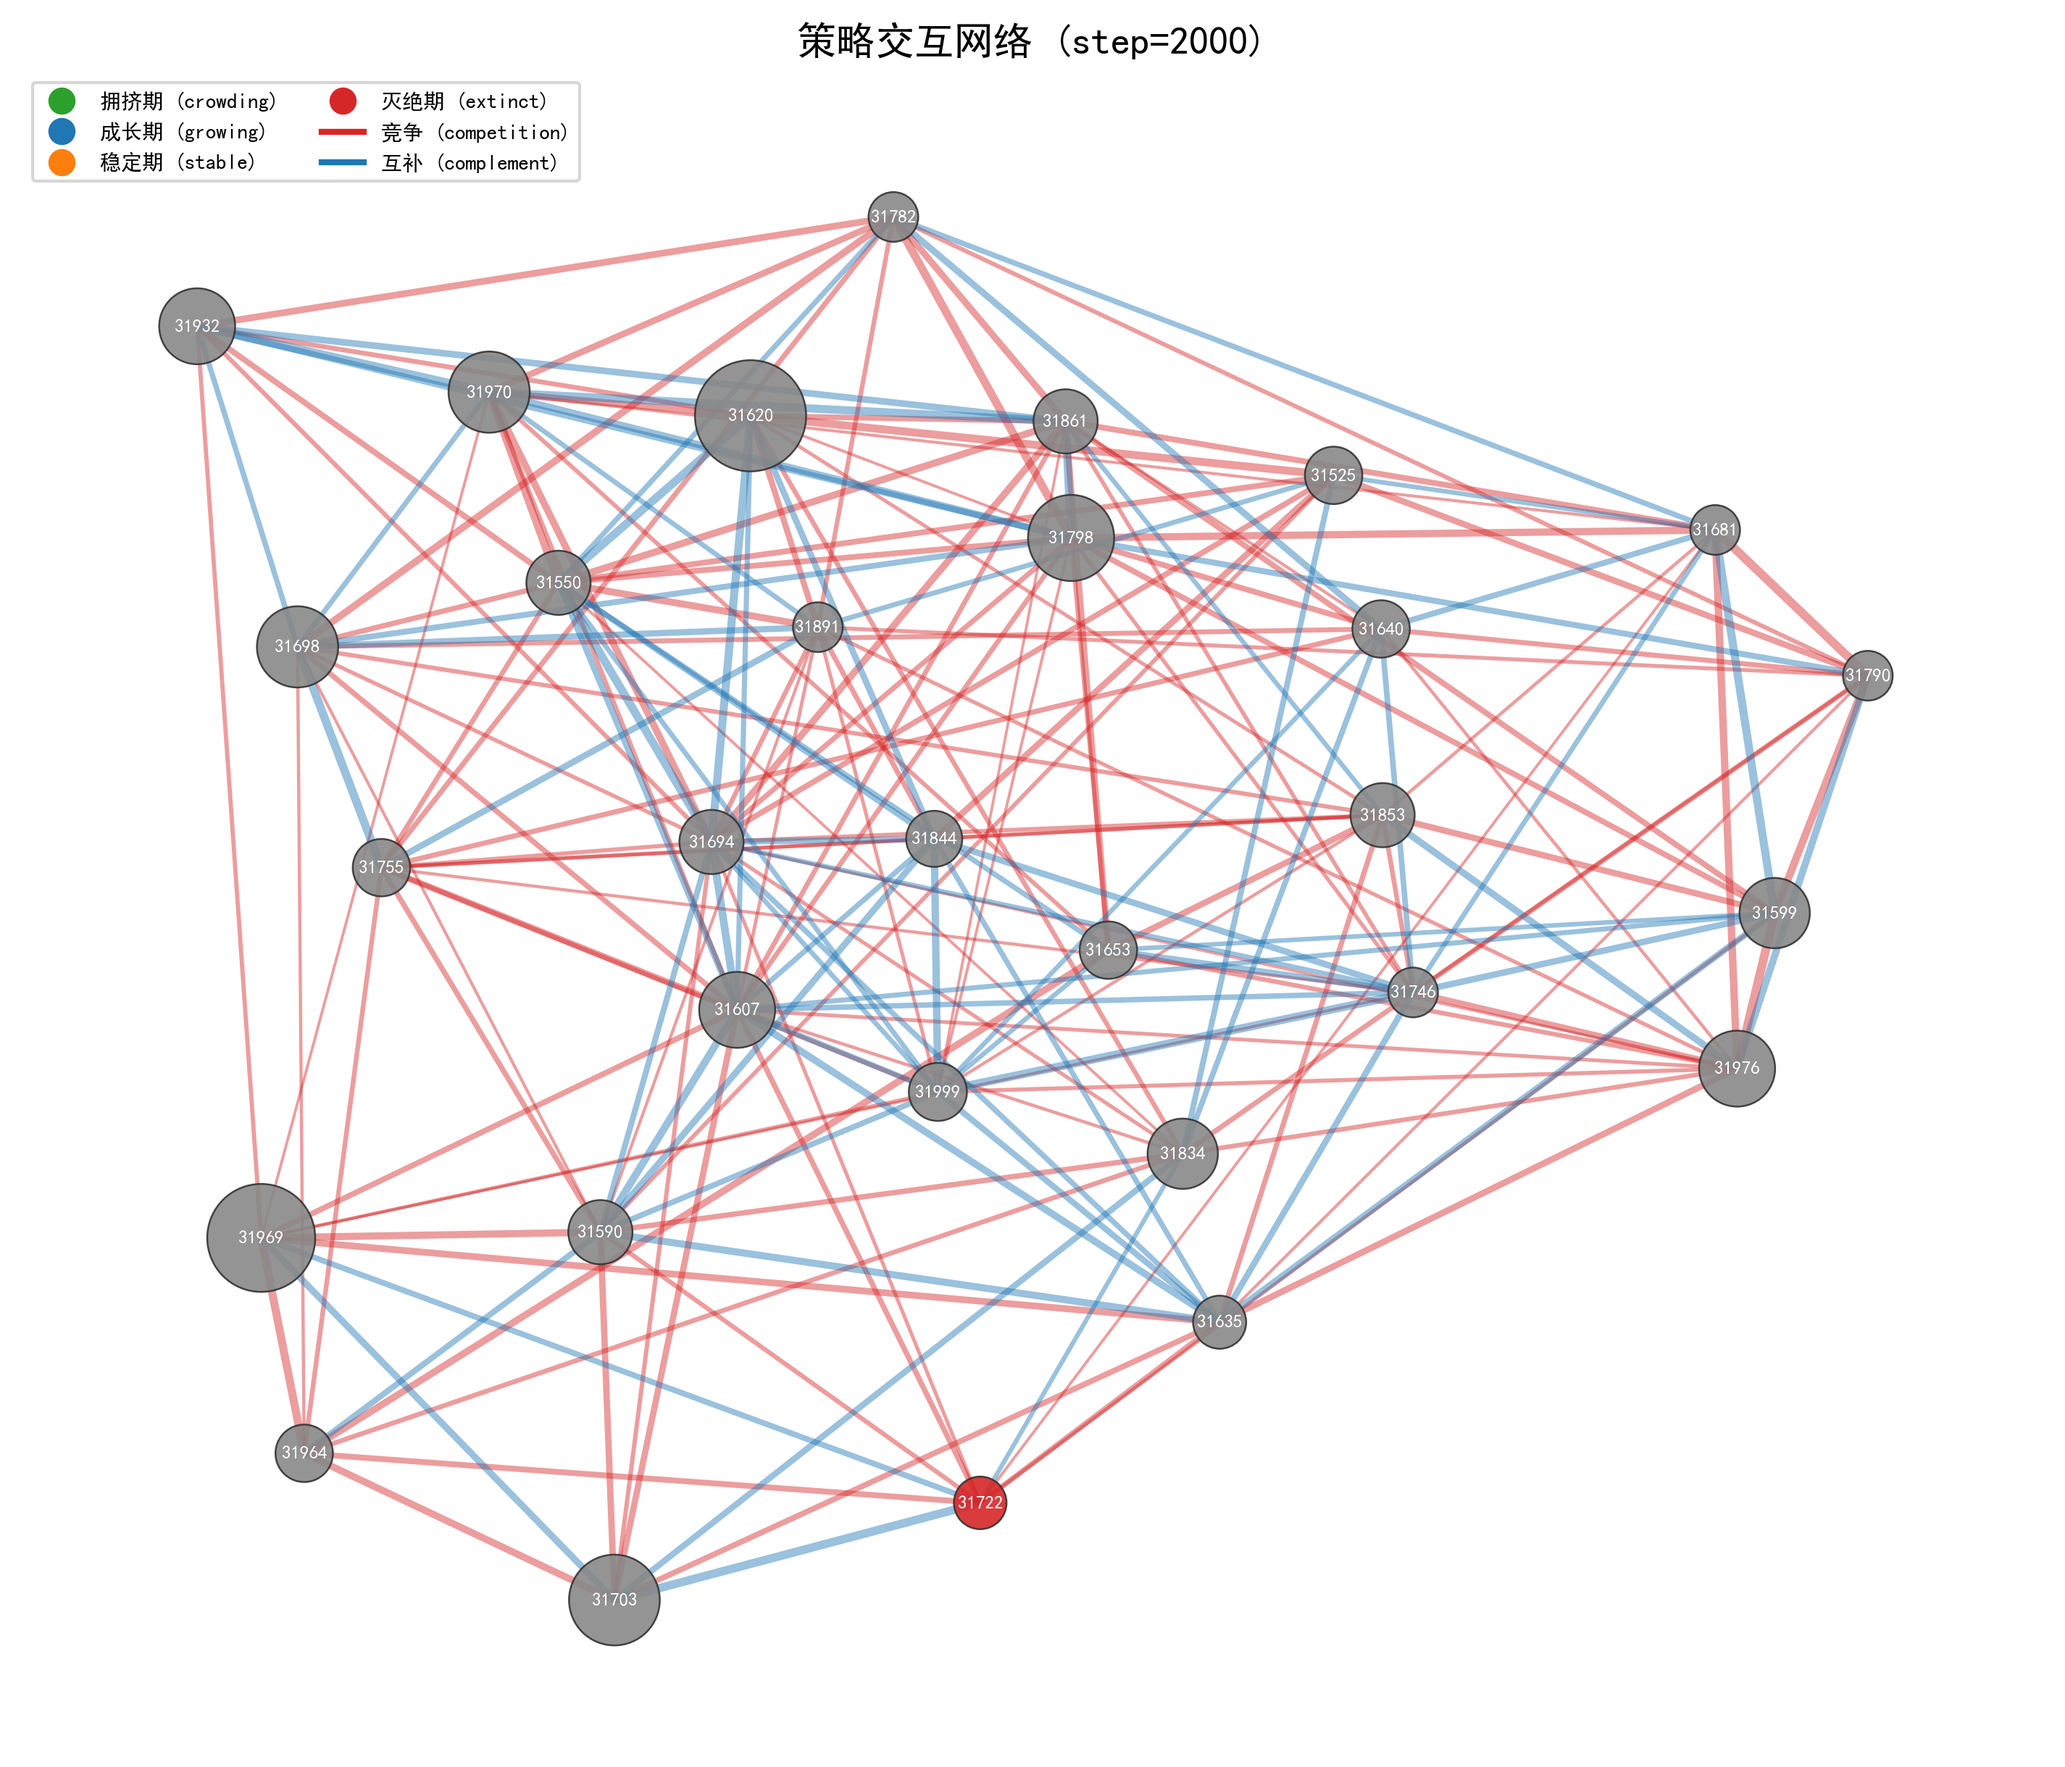
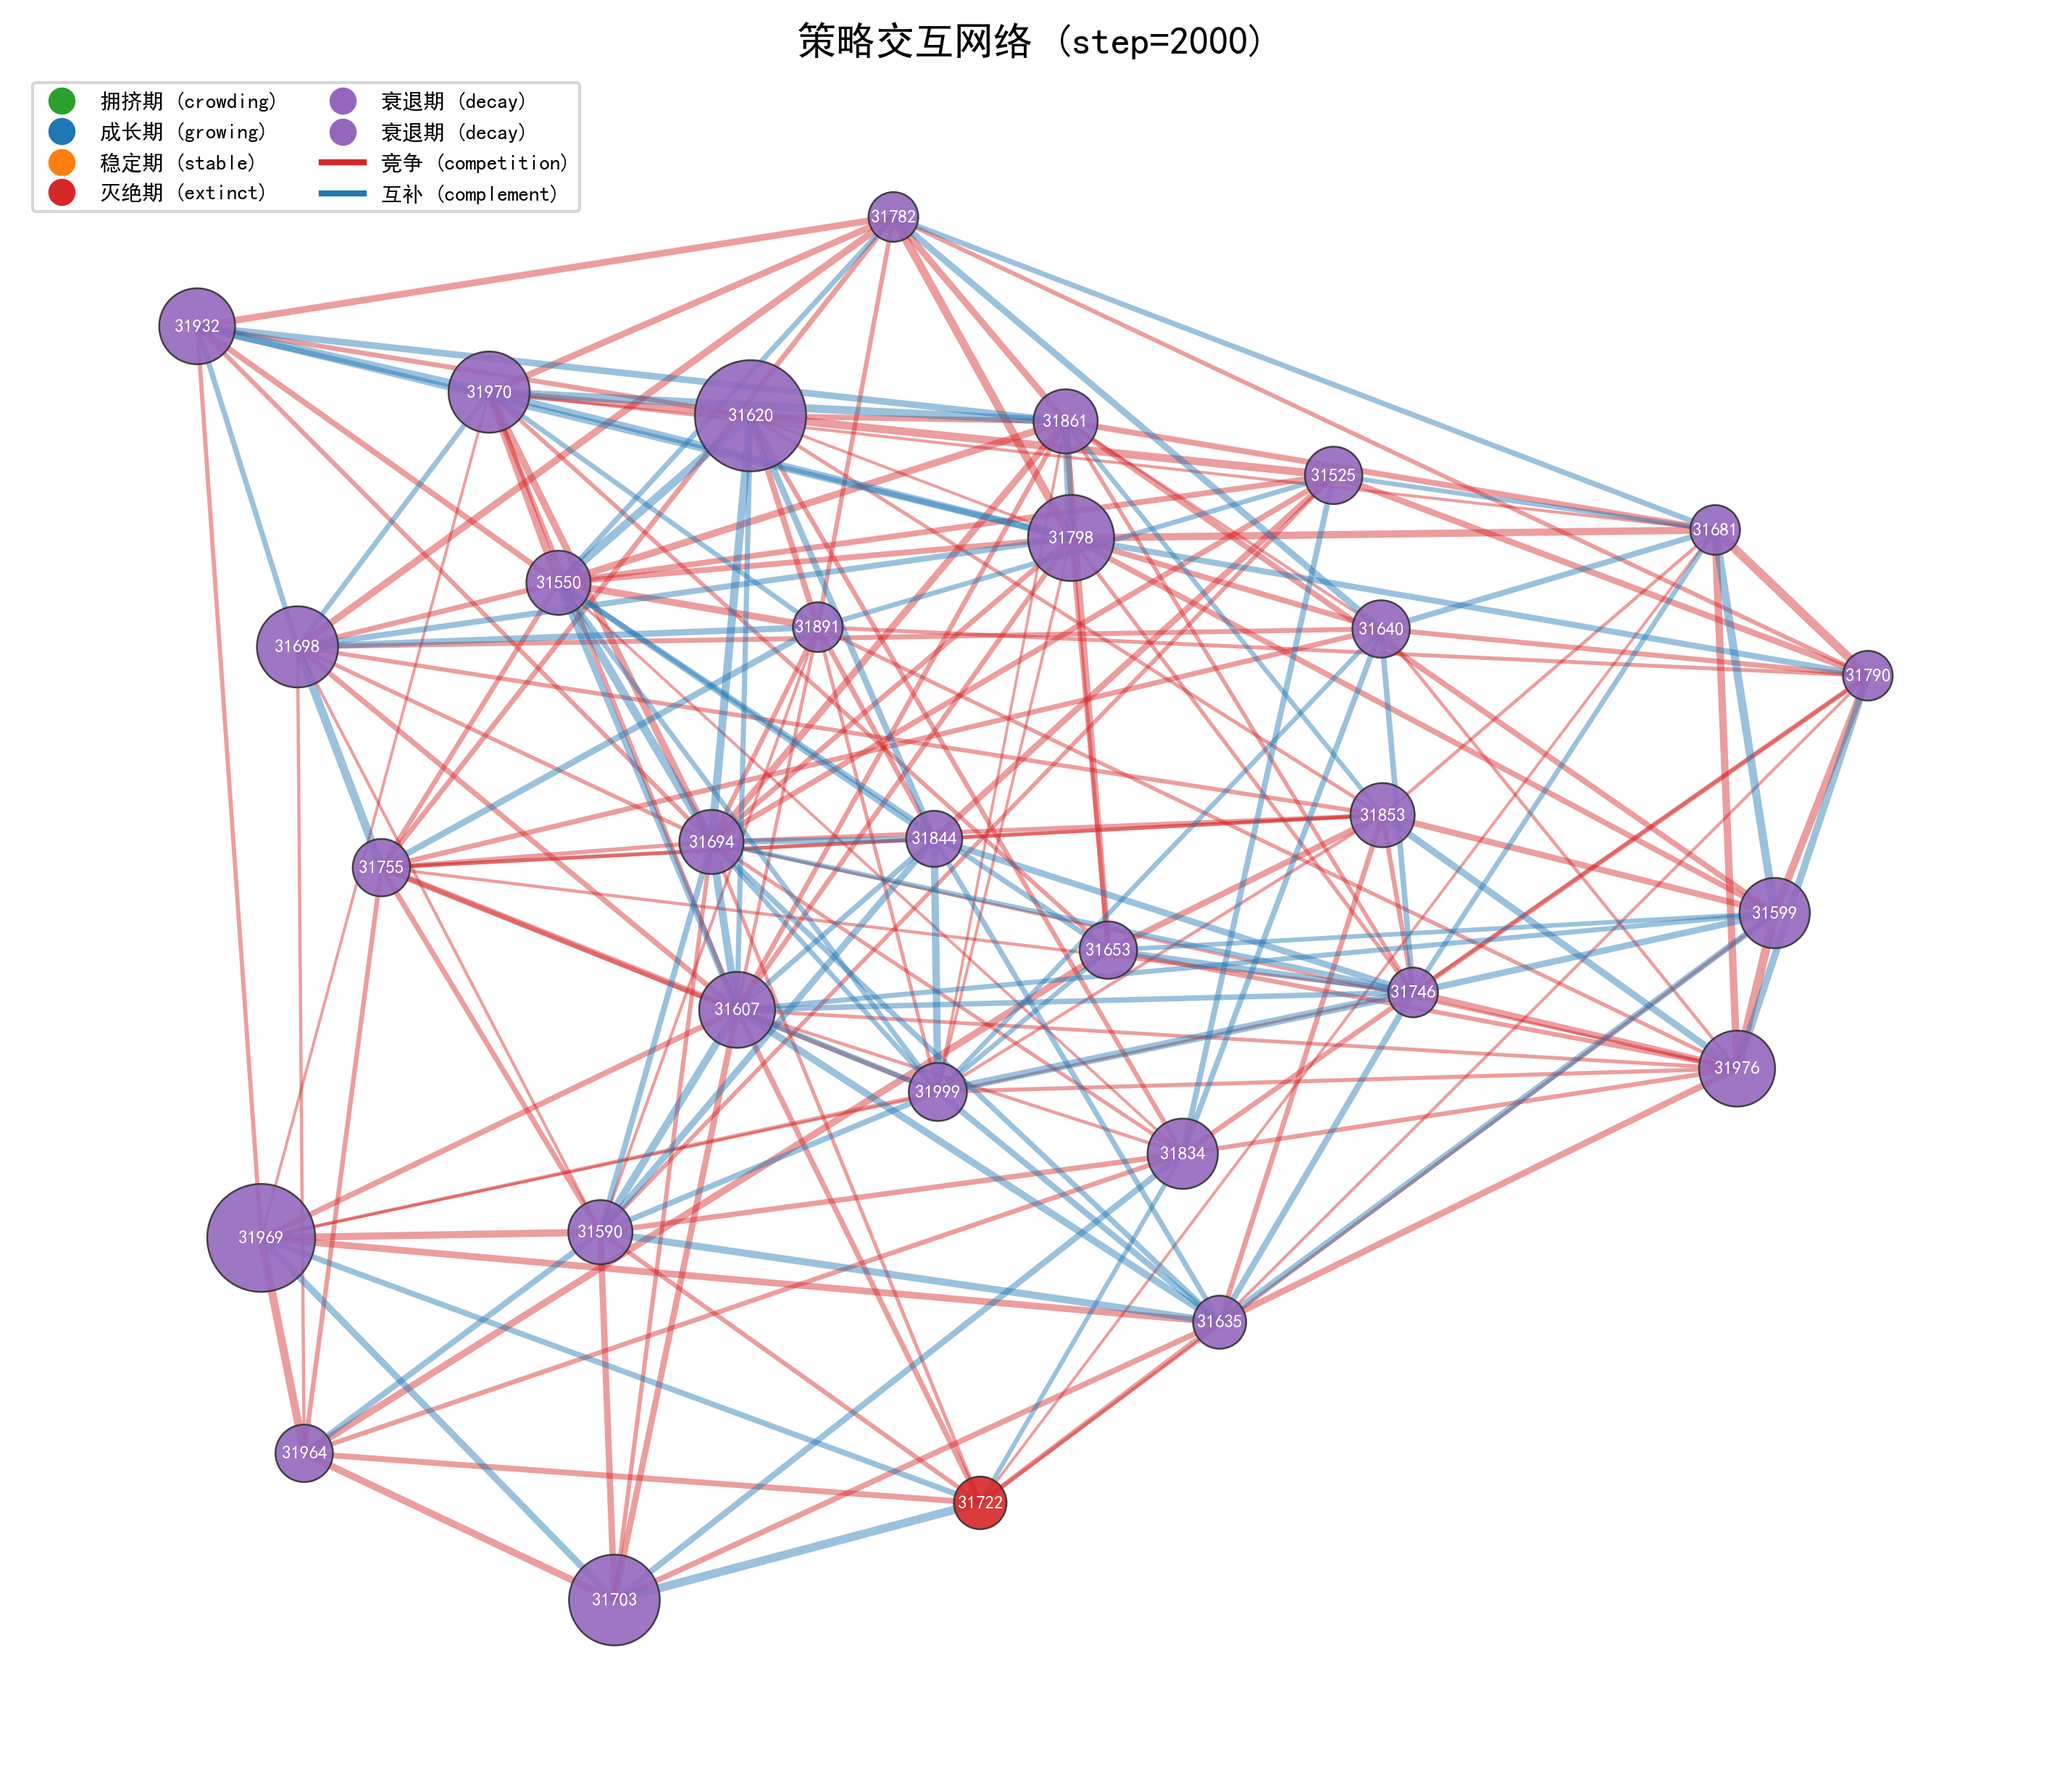
fix: 图3.29节点灰色→彩色——脚本phase_colors补'decay'衰退期(紫色)，原数据含extinct/decay两阶段但脚本只定义四色导致全灰

diff --git a/scripts/plots/e4/fig4_8_interaction_network.py b/scripts/plots/e4/fig4_8_interaction_network.py
@@ -81,7 +81,7 @@ def draw_network(G, ax, title):
 
     # node colours by phase
     phase_colors = {"crowding": "#2ca02c", "extinct": "#d62728",
-                    "growing": "#1f77b4", "stable": "#ff7f0e"}
+                    "growing": "#1f77b4", "stable": "#ff7f0e", "decay": "#9467bd"}
     node_colors = [phase_colors.get(G.nodes[n]["phase"], "#888888") for n in G.nodes]
 
     # draw edges - red first, then blue on top for cleaner look
@@ -116,6 +116,10 @@ def draw_network(G, ax, title):
                markersize=10, label='稳定期 (stable)'),
         Line2D([0], [0], marker='o', color='w', markerfacecolor='#d62728',
                markersize=10, label='灭绝期 (extinct)'),
+        Line2D([0], [0], marker='o', color='w', markerfacecolor='#9467bd',
+               markersize=10, label='衰退期 (decay)'),
+        Line2D([0], [0], marker='o', color='w', markerfacecolor='#9467bd',
+               markersize=10, label='衰退期 (decay)'),
         Line2D([0], [0], color='#d62728', lw=2, label='竞争 (competition)'),
         Line2D([0], [0], color='#1f77b4', lw=2, label='互补 (complement)'),
     ]
